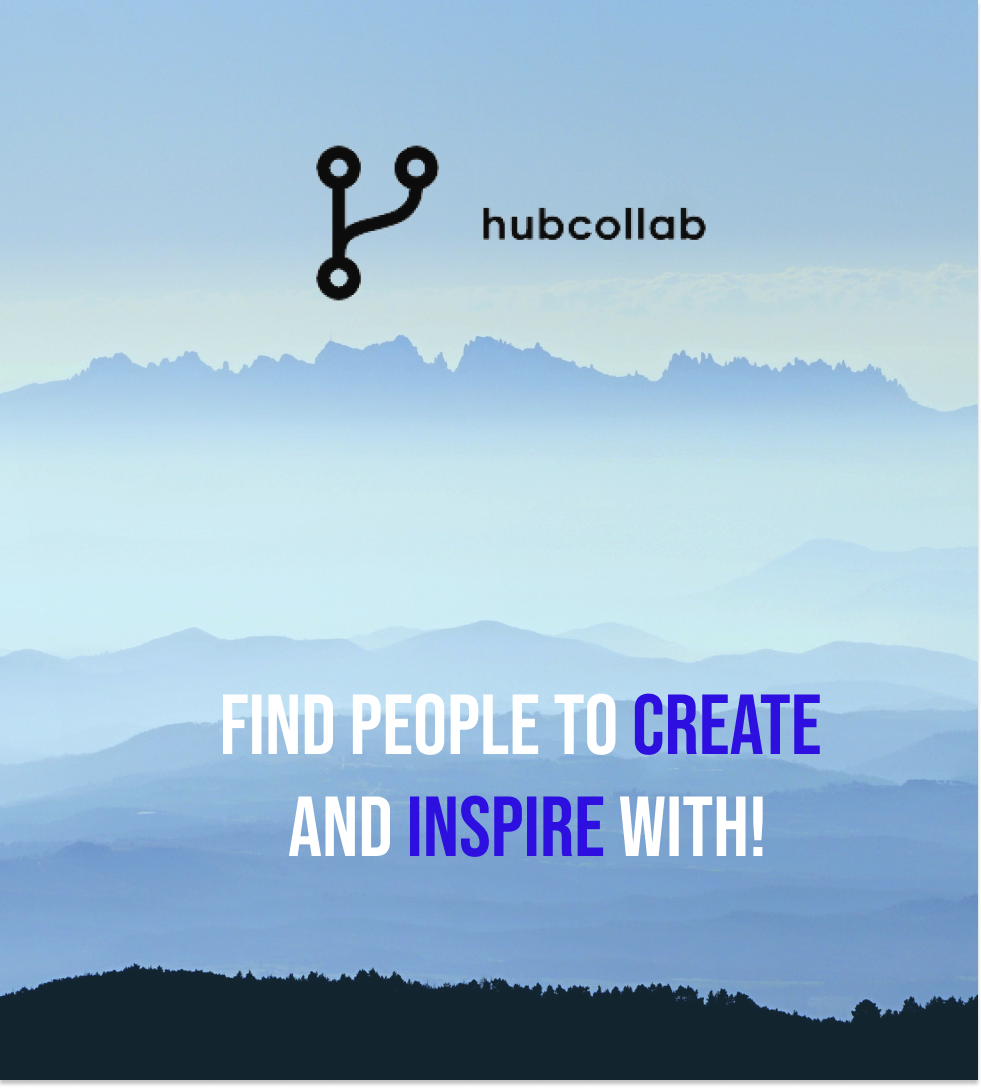
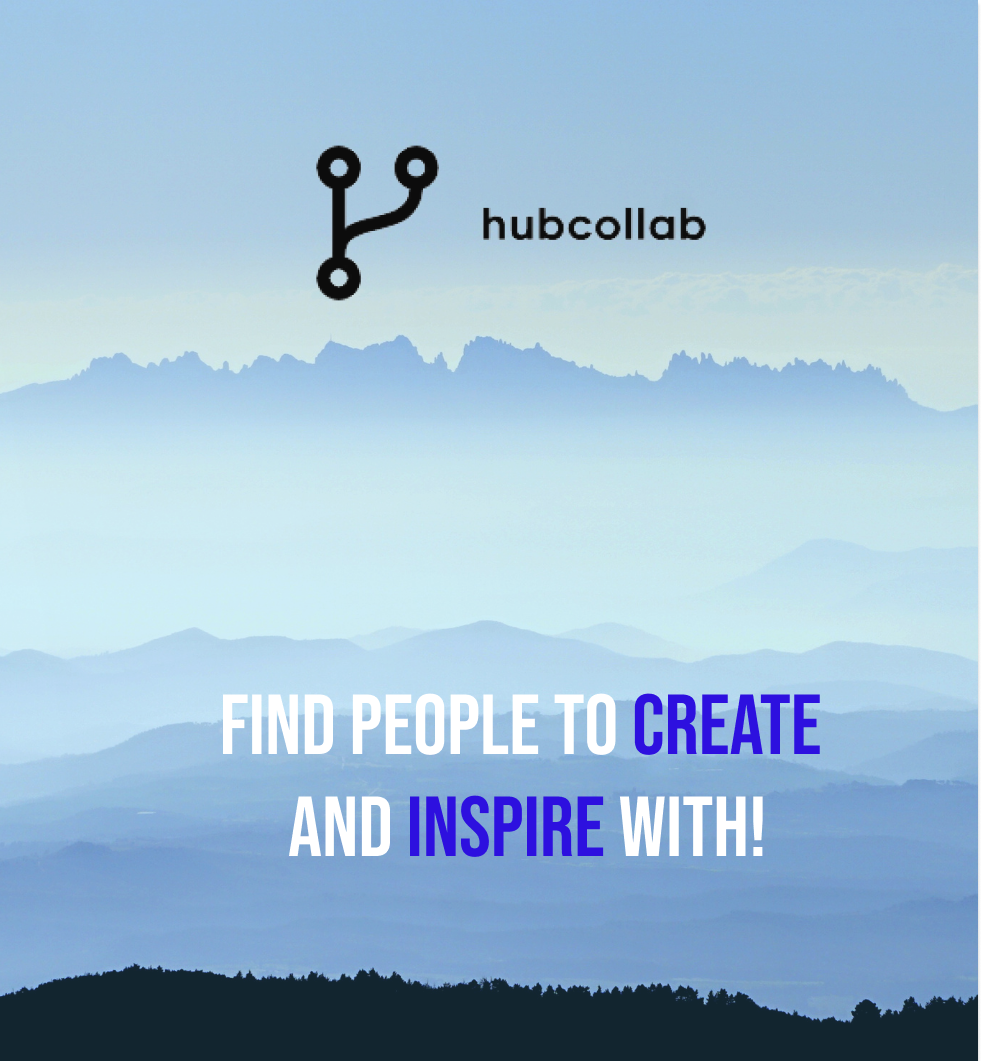
Sign In Page Added

diff --git a/hub-collab/src/signup.css b/hub-collab/src/signup.css
@@ -1,64 +1,74 @@
-@import url('https://fonts.googleapis.com/css2?family=Questrial&display=swap');
-@import url('https://fonts.googleapis.com/css2?family=Bebas+Neue&display=swap');
-.container {
-    display: grid;
-    grid-template-columns: 50% 50%;
-}
+    @import url('https://fonts.googleapis.com/css2?family=Questrial&display=swap');
+    @import url('https://fonts.googleapis.com/css2?family=Bebas+Neue&display=swap');
+    .container {
+        display: grid;
+        grid-template-columns: 50% 50%;
+    }
 
-.signUpButton {
-    text-align: center;
-    width: 55%;
-    border-radius: 40px;
-    height: 40px;
-    color: white;
-    font-family: Questrial;
-    font-size: 25px;
-    background-color: #5138EE;
-    border: none;
-}
+    .signUpButton {
+        text-align: center;
+        width: 55%;
+        border-radius: 40px;
+        height: 40px;
+        color: white;
+        font-family: Questrial;
+        font-size: 25px;
+        background-color: #5138EE;
+        border: none;
+    }
 
-.signInButton {
-    color: #1A5DDF;
-}
+    .signInButton {
+        color: #1A5DDF;
+    }
 
-.form-container {
-    background: #fffefe;
-    padding-left: 20%;
-}
+    .form-container {
+        background: #fffefe;
+        padding-left: 20%;
+    }
 
-h1 {
-    font-family: Bebas Neue;
-    font-style: normal;
-    font-weight: normal;
-    font-size: 80px;
-    line-height: 50px;
-    text-align: center;
-    color: #000000;
-}
+    h1 {
+        font-family: Bebas Neue;
+        font-style: normal;
+        font-weight: normal;
+        font-size: 80px;
+        line-height: 50px;
+        text-align: center;
+        color: #000000;
+    }
 
-input {
-    font-family: Questrial;
-    padding: 12px 20px;
-    font-size: 16px;
-}
+    input {
+        font-family: Questrial;
+        padding: 12px 20px;
+        font-size: 16px;
+    }
 
-h2 {
-    font-family: Questrial;
-    font-style: normal;
-    font-weight: normal;
-    font-size: 33px;
-    line-height: 43px;
-    color: #000000;
-}
+    h2 {
+        font-family: Questrial;
+        font-style: normal;
+        font-weight: normal;
+        font-size: 33px;
+        line-height: 43px;
+        color: #000000;
+    }
+    p{
+        font-family: Questrial;
+        font-style: normal;
+        font-weight: normal;
+        font-size: 14px;
+        line-height: 15px;
+        color: #000000;
+    }
 
-.img-container {
-    height: 100%;
-    display: block;
-}
+    .img-container {
+        
+        height: 100%;
+        display: block;
+    }
 
-.img {
-    max-height: 100vh;
-    display: block;
-    width: 100%;
-    height: 100%;
-}
+    .img {
+        
+        max-height: 100vh;
+        max-width: 100vh;
+        display: block;
+        height: 100%;
+    }

diff --git a/hub-collab/src/login.js b/hub-collab/src/login.js
@@ -1,8 +1,8 @@
 import "./signup.css";
-import image from "./assets/image.png";
+import image2 from "./assets/image2.png";
 import TextField from "./components/TextField.js";
 import FileUploadButton from "./components/Uploadimage.js";
-
+import {Link} from "react-router-dom";
 function LogIn() {
   return (
     <main>
@@ -12,25 +12,27 @@ function LogIn() {
             <h1>HubCollab</h1>
           </header>
           <article className="form">
-            <h2>Log In</h2>
-            <TextField type={"text"} property={"Name"} />
-            <br></br>
+            <h2>Sign In</h2>
+            
             <TextField type={"text"} property={"Email"} />
             <br></br>
             <TextField type={"password"} property={"Password"} />
-            <br></br>
-            <FileUploadButton />
-            <br></br>
+            <br></br><br></br>
+            
             <button type="button" class="signUpButton">
-              SIGN UP
+              SIGN IN
             </button>
+            <br></br><br></br>
             <p>
-              Already have an account? <span class="signInButton">SIGN IN</span>
+              Forgot Password? <span class="signInButton">Click Here to Reset</span>
+            </p>
+            <p>
+              Don't Have an Account? <span class="signInButton"><Link to ="/">SIGN UP</Link></span>
             </p>
           </article>
         </div>
         <div className="img-container">
-          <img className="img" src={image} />
+          <img className="img"  src={image2} />
         </div>
       </div>
     </main>

diff --git a/hub-collab/src/signup.js b/hub-collab/src/signup.js
@@ -24,6 +24,7 @@ function SignUp() {
             <button type="button" class="signUpButton">
               SIGN UP
             </button>
+            <br></br>
             <p>
               Already have an account? <span class="signInButton"><Link to ="/login">SIGN IN</Link></span>
             </p>
